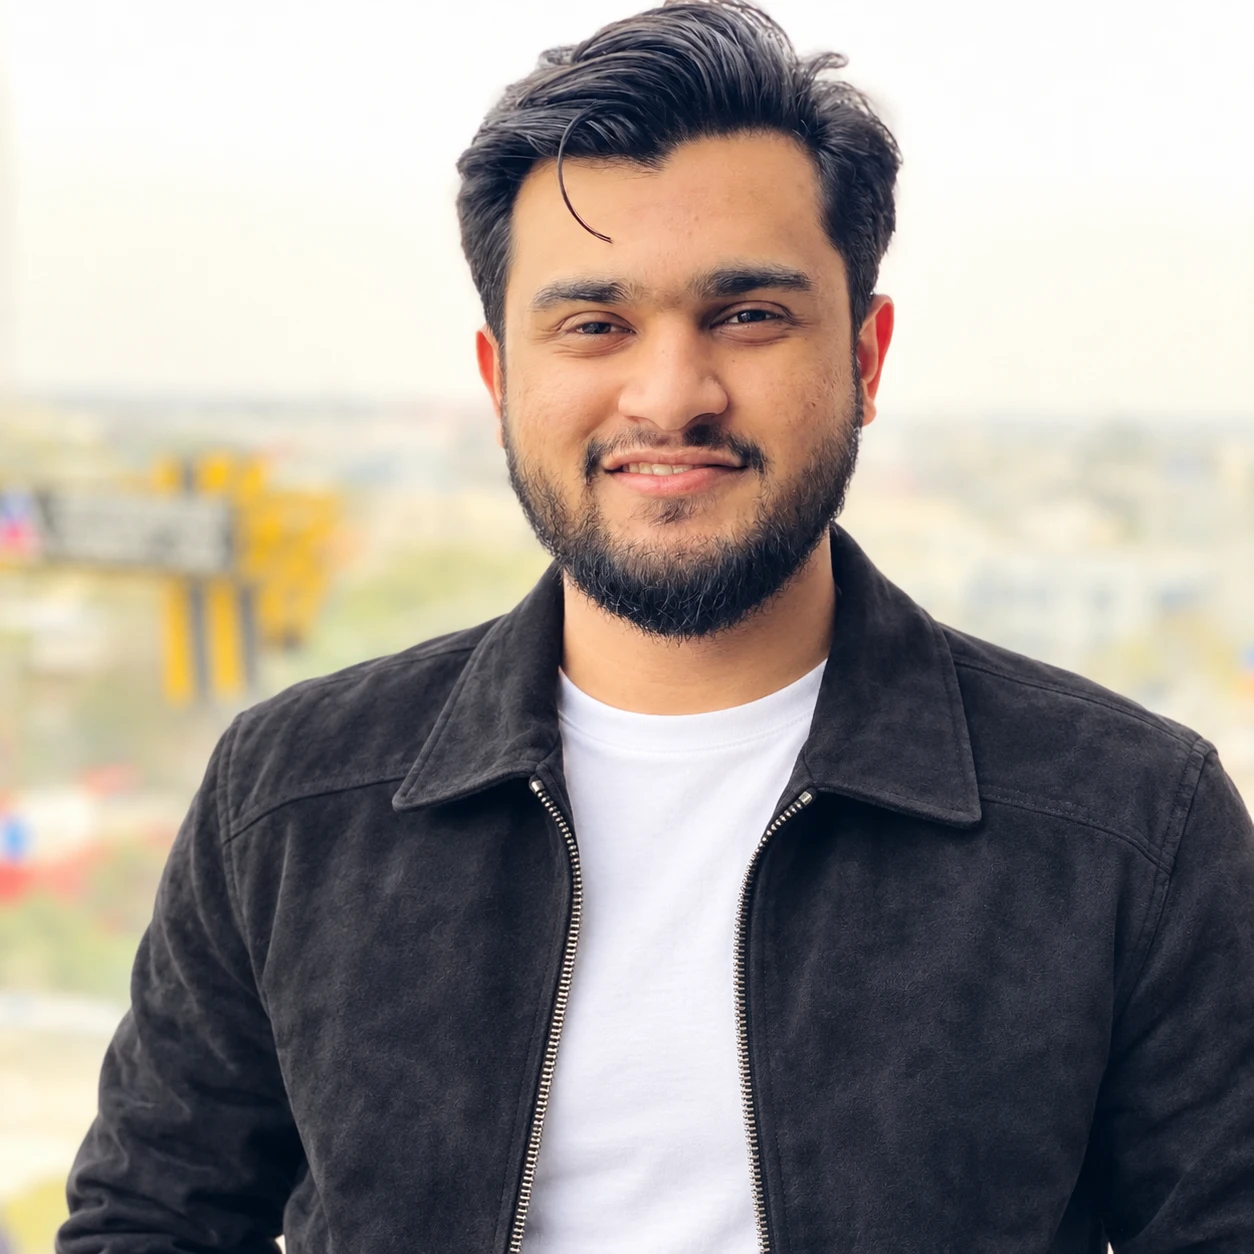
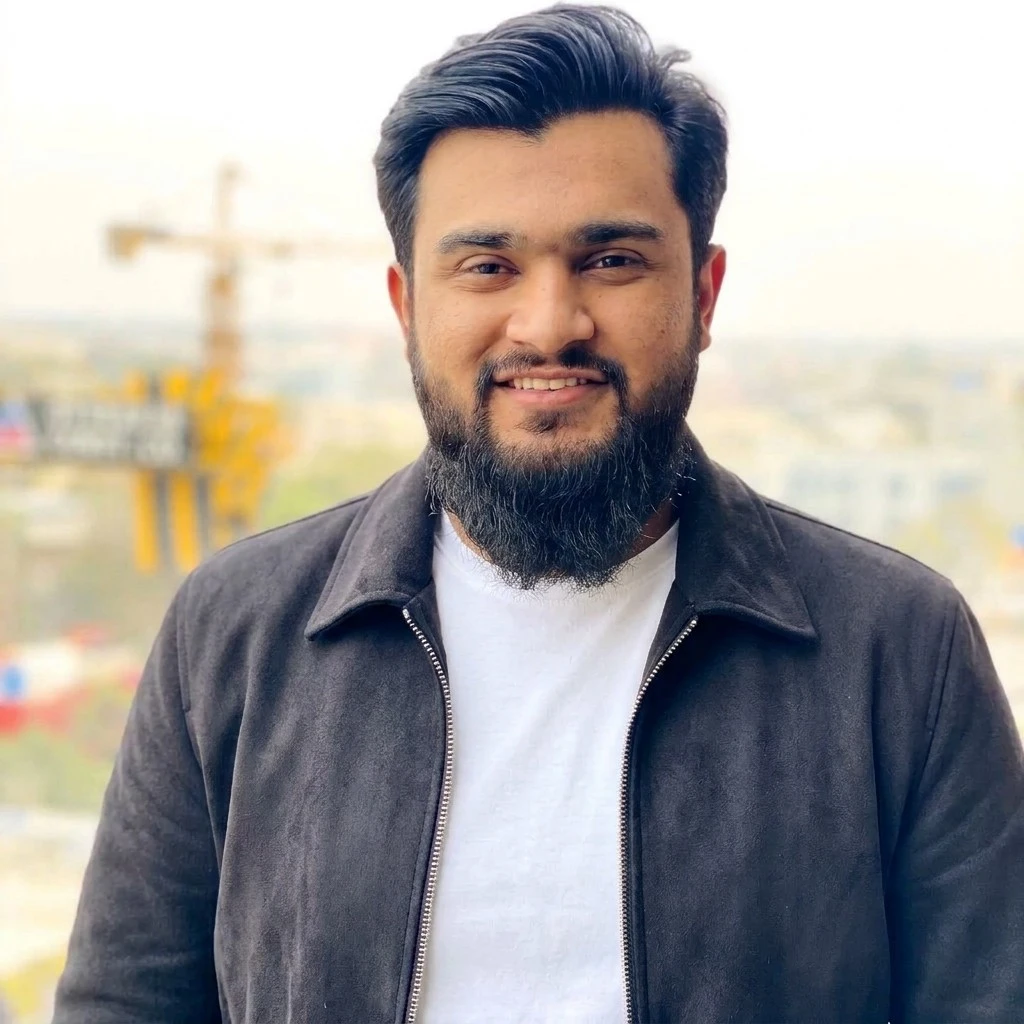
Replace About photo with updated portrait
- New square portrait on the About page, also used as the Person JSON-LD image
- Alt text updated; responsive widths capped at the 1024px source
- TODO updated

Claude-Session: https://claude.ai/code/session_01Jd6paUqSgtSRCZRCQBcinL

diff --git a/TODO.md b/TODO.md
@@ -7,7 +7,6 @@ Everything below is visible on the site as a dashed placeholder or flagged in a 
 - [ ] **Domain**: set `SITE_URL` in Vercel. Currently defaults to `https://ahmadsaeed.com`.
 - [ ] **Contact form**: create a Web3Forms (or Formspree) key and set `PUBLIC_FORM_KEY`. Until then the form tells visitors to email you.
 - [ ] **GTM**: set `PUBLIC_GTM_ID` and set up the custom event triggers listed in the README.
-- [ ] **Updated About photo** (the longer-beard one): send it as a file attachment. It came through only as an inline preview, which can't be saved.
 - [x] **Professional photo**: `src/assets/about/ahmad-saeed.webp`. To change it, overwrite that file (square works best) and update `photoAlt` in `src/content/pages/about.md`.
 - [ ] **CV PDF**: `public/Ahmad_Saeed_CV.pdf` is currently printed from `/resume`. Replace it with your designed CV if you have one.
 

diff --git a/src/content/pages/about.md b/src/content/pages/about.md
@@ -5,7 +5,7 @@ eyebrow: About
 heading: A Shopify specialist who started as a designer.
 lede: I build and run Shopify stores for retail and DTC brands, and I care as much about how a store works for the team behind it as how it looks to customers.
 photo: ../../assets/about/ahmad-saeed.webp
-photoAlt: "Ahmad Saeed smiling, wearing a black suede jacket over a white T-shirt"
+photoAlt: "Ahmad Saeed smiling, with a full beard, wearing a black suede jacket over a white T-shirt, with a city skyline behind"
 education:
   degree: BSc Computer Science
   school: Bahria University
